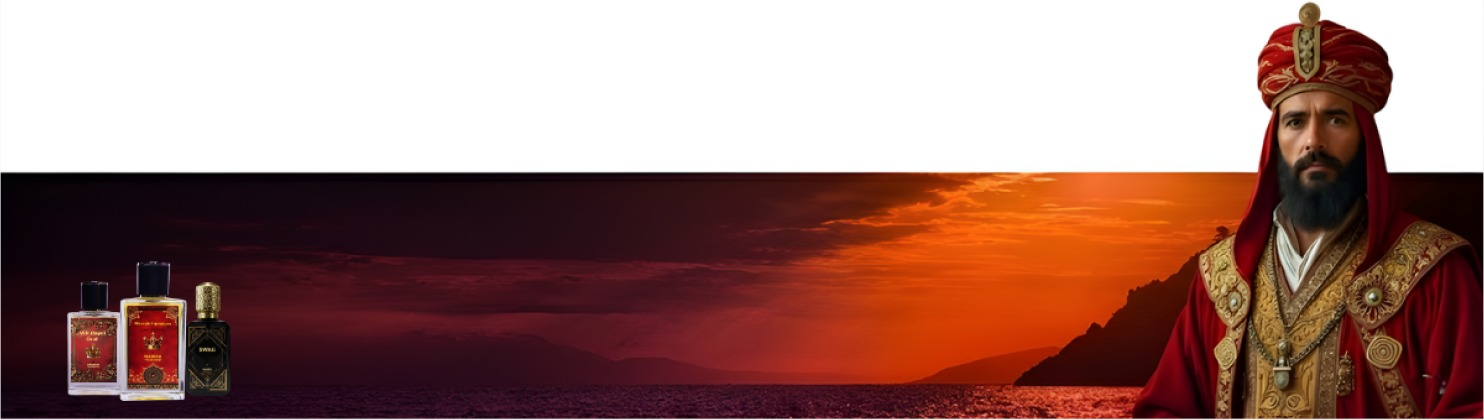
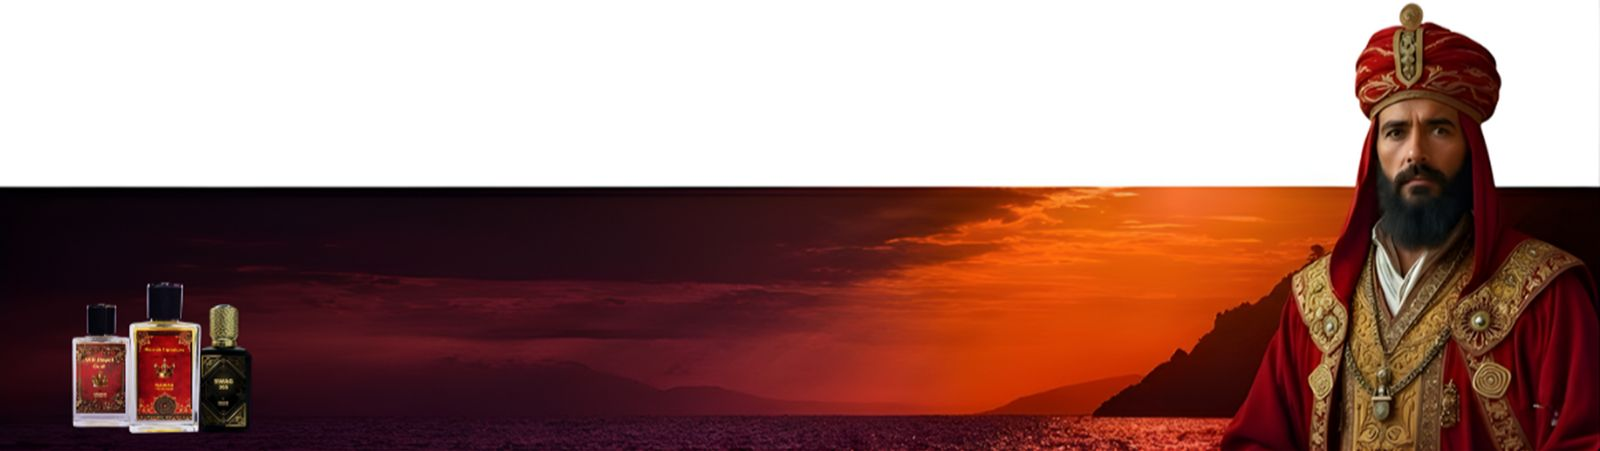
update

diff --git a/index.html b/index.html
@@ -126,7 +126,7 @@
             <div id="carouselExampleFade" class="carousel slide carousel-fade hero-section">
                 <div class="carousel-inner">
                     <div class="carousel-item active">
-                        <img src="assets/NEW.jpeg" class="d-block w-100" alt="..." loading="lazy">
+                        <img src="assets/NEW.png" class="d-block w-100" alt="..." loading="lazy">
                     </div>
                     <div class="carousel-item">
                         <img src="assets/NEW1.png" class="d-block w-100" alt="..." loading="lazy">
@@ -322,7 +322,7 @@
                             <h3 class="product-name">Freedom</h3>
                             <p class="product-desc">Office For Men</p>
                             <div class="sale-badge">Sale</div>
-                            <div class="price-block"><span class="original-price">Rs. 2,250</span> <span
+                            <div class="price-block"><span class="original-price">Rs. 2,450</span> <span
                                     class="sale-price">Rs. 2,150</span></div>
                         </div>
                     </div>
@@ -340,7 +340,7 @@
                             <h3 class="product-name">Alpha Man</h3>
                             <p class="product-desc">Inspired by Aventus</p>
                             <div class="sale-badge">Sale</div>
-                            <div class="price-block"><span class="original-price">Rs. 2,550</span> <span
+                            <div class="price-block"><span class="original-price">Rs. 2,450</span> <span
                                     class="sale-price">Rs. 2,150</span></div>
                         </div>
                     </div>
@@ -395,7 +395,7 @@
                             <h3 class="product-name">Flora Moves</h3>
                             <p class="product-desc">Gucci flora inspired</p>
                             <div class="sale-badge">Sale</div>
-                            <div class="price-block"><span class="original-price">Rs. 2,250</span> <span
+                            <div class="price-block"><span class="original-price">Rs. 2,450</span> <span
                                     class="sale-price">Rs. 2,150</span></div>
                         </div>
                     </div>
@@ -414,7 +414,7 @@
                             <h3 class="product-name">Gull</h3>
                             <p class="product-desc">Inspired by Baccarat Rouge 540</p>
                             <div class="sale-badge">Sale</div>
-                            <div class="price-block"><span class="original-price">Rs. 2,250</span> <span
+                            <div class="price-block"><span class="original-price">Rs. 2,450</span> <span
                                     class="sale-price">Rs. 2,150</span></div>
                         </div>
                     </div>
@@ -431,7 +431,7 @@
                                     alt="Chocolate Musk" class="img-fluid" loading="lazy"></a>
                             <h3 class="product-name">Persona</h3>
                             <p class="product-desc">Inspired by Chocolate Musk</p>
-                            <div class="price-block"><span class="original-price">Rs. 2,250</span> <span
+                            <div class="price-block"><span class="original-price">Rs. 2,450</span> <span
                                     class="sale-price">Rs. 2,150</span></div>
                         </div>
                     </div>
@@ -450,7 +450,25 @@
                             <h3 class="product-name">Golden Girl</h3>
                             <p class="product-desc">Inspired by Guess Gold</p>
                             <div class="sale-badge">Sale</div>
-                            <div class="price-block"><span class="original-price">Rs. 2,250</span> <span
+                            <div class="price-block"><span class="original-price">Rs. 2,450</span> <span
+                                    class="sale-price">Rs. 2,150</span></div>
+                        </div>
+                    </div>
+                    <div class="col">
+                        <div class="product-card text-center">
+                            <div class="floating-actions">
+                                <button class="fabtn quick-view-btn" data-bs-toggle="modal"
+                                    data-bs-target="#quickViewModal" data-product-id="rainbow-black-opium"
+                                    aria-label="Quick View"><i class="fas fa-search"></i></button>
+                                <button class="fabtn add-to-cart-btn" data-product-id="rainbow-black-opium"
+                                    aria-label="Add to Cart"><i class="fas fa-plus"></i></button>
+                            </div>
+                            <a href="/product.html?id=rainbow-black-opium"><img src="assets/rainbow3.png"
+                                    alt="Rainbow" class="img-fluid" loading="lazy"></a>
+                            <h3 class="product-name">Rainbow</h3>
+                            <p class="product-desc">Inspired by Black Opium</p>
+                            <div class="sale-badge">Sale</div>
+                            <div class="price-block"><span class="original-price">Rs. 2,450</span> <span
                                     class="sale-price">Rs. 2,150</span></div>
                         </div>
                     </div>
@@ -485,7 +503,7 @@
                             <h3 class="product-name">Flora Moves</h3>
                             <p class="product-desc">Inspired by Gucci Flora</p>
                             <div class="sale-badge">Sale</div>
-                            <div class="price-block"><span class="original-price">Rs. 2,250</span> <span
+                            <div class="price-block"><span class="original-price">Rs. 2,450</span> <span
                                     class="sale-price">Rs. 2,150</span></div>
                             <!-- <a href="/product.html?id=flora-moves-gucci-flora" class="btn btn-outline-gold mt-2">View Details</a> -->
                         </div>
@@ -505,7 +523,7 @@
                             <h3 class="product-name">Gorgeous</h3>
                             <p class="product-desc">Inspired by Tommy Girl</p>
                             <div class="sale-badge">Sale</div>
-                            <div class="price-block"><span class="original-price">Rs. 2,250</span> <span
+                            <div class="price-block"><span class="original-price">Rs. 2,450</span> <span
                                     class="sale-price">Rs. 2,150</span></div>
                         </div>
                     </div>
@@ -524,7 +542,7 @@
                             <h3 class="product-name">Butterfly</h3>
                             <p class="product-desc">Inspired by Gucci Bloom</p>
                             <div class="sale-badge">Sale</div>
-                            <div class="price-block"><span class="original-price">Rs. 2,250</span> <span
+                            <div class="price-block"><span class="original-price">Rs. 2,450</span> <span
                                     class="sale-price">Rs. 2,150</span></div>
                         </div>
                     </div>
@@ -543,7 +561,7 @@
                             <h3 class="product-name">Era</h3>
                             <p class="product-desc">Inspired by Oud Wood</p>
                             <div class="sale-badge">Sale</div>
-                            <div class="price-block"><span class="original-price">Rs. 2,250</span> <span
+                            <div class="price-block"><span class="original-price">Rs. 2,450</span> <span
                                     class="sale-price">Rs. 2,150</span></div>
                         </div>
                     </div>
@@ -562,7 +580,7 @@
                             <h3 class="product-name">Aura</h3>
                             <p class="product-desc">Inspired by Issey Miyake</p>
                             <div class="sale-badge">Sale</div>
-                            <div class="price-block"><span class="original-price">Rs. 2,250</span> <span
+                            <div class="price-block"><span class="original-price">Rs. 2,450</span> <span
                                     class="sale-price">Rs. 2,150</span></div>
                         </div>
                     </div>
@@ -591,7 +609,7 @@
                             <h3 class="product-name">Platinum</h3>
                             <p class="product-desc">Inspired by D&GLight Blue</p>
                             <div class="sale-badge">Sale</div>
-                            <div class="price-block"><span class="original-price">Rs. 2,250</span> <span
+                            <div class="price-block"><span class="original-price">Rs. 2,450</span> <span
                                     class="sale-price">Rs. 2,150</span></div>
                         </div>
                     </div>

diff --git a/script.js b/script.js
@@ -49,7 +49,7 @@ document.addEventListener('DOMContentLoaded', () => {
         { id: 'gull-baccarat-rouge-540', name: 'Gull', tagline: 'Inspired by Baccarat Rouge 540', price: 2150, image: 'assets/gull-baccarat-rouge-540.jpg', sizes: ['50ml'], category: 'women', premium: false },
         { id: 'crystal-jadore', name: 'Crystal', tagline: 'Inspired by J’adore', price: 2150, image: 'assets/crystal-jadore.jpg', sizes: ['50ml'], category: 'women', premium: false },
         { id: 'touch-burberry-body', name: 'Touch', tagline: 'Inspired by Burberry Body', price: 2150, image: 'assets/touch.jpg', sizes: ['50ml'], category: 'women', premium: false },
-        { id: 'rainbow-black-opium', name: 'Rainbow', tagline: 'Inspired by Black Opium', price: 2150, image: 'assets/Special-Oud-100ml.jpeg', sizes: ['50ml'], category: 'women', premium: false },
+        { id: 'rainbow-black-opium', name: 'Rainbow', tagline: 'Inspired by Black Opium', price: 2150, image: 'assets/rainbow3.png', sizes: ['50ml'], category: 'women', premium: false },
         { id: 'platinum-dg-light-blue', name: 'Platinum', tagline: 'Inspired by D&J Light Blue', price: 2150, image: 'assets/platinum.jpg', sizes: ['50ml'], category: 'women', premium: false },
         { id: 'aroma-breeze-spring-flower', name: 'Aroma Breeze', tagline: 'Inspired by Spring Flower', price: 2450, image: 'assets/aroma-breeze-spring-flower.jpg', sizes: ['50ml'], category: 'women', premium: true },
 
@@ -58,28 +58,30 @@ document.addEventListener('DOMContentLoaded', () => {
         { id: 'time-less-no4', name: 'Time less', tagline: 'Inspired by Thomas Kosmala No.4', price: 2150, image: 'assets/timeless.jpg', sizes: ['50ml'], category: 'unisex', premium: false },
         { id: 'white-oud-premium', name: 'White Oud Premium', tagline: 'Inspired by Premium Oud', price: 2450, image: 'assets/White-Oud-Premium-100ml.jpeg', sizes: ['50ml'], category: 'unisex', premium: true },
         { id: 'imperial-oud-ispahan', name: 'Imperial Oud', tagline: 'Inspired by Oud Ispahan', price: 2150, image: 'assets/imperial-oud.jpg', sizes: ['50ml'], category: 'unisex', premium: false },
-        { id: 'vip-royal-oud', name: 'VIP Royal Oud', tagline: 'Inspired by Royal Oud', price: 2150, image: 'assets/vip-royal-oud-hover1.jpeg', sizes: ['50ml'], category: 'unisex', premium: false },
+        { id: 'vip-royal-oud', name: 'VIP Royal Oud', tagline: 'Inspired by Royal Oud', price: 2150, image: 'assets/vip-royal-oud-hover1.jpeg', sizes: ['50ml'], category: 'unisex', premium: true },
         { id: 'persona-chocolate-musk', name: 'Persona', tagline: 'Inspired by Chocolate Musk', price: 2150, image: 'assets/Persona.jpg', sizes: ['50ml'], category: 'unisex', premium: false },
-        { id: 'king-srk', name: 'KING SRK', tagline: 'Inspired by Signature Series', price: 2450, image: 'assets/Special-Oud-100ml.jpeg', sizes: ['50ml'], category: 'unisex', premium: true },
         { id: 'prime-ck-one', name: 'Prime', tagline: 'Inspired by CK One', price: 2150, image: 'assets/prime.jpg', sizes: ['50ml'], category: 'unisex', premium: false },
 
         // --- Men ---
         { id: 'swag', name: 'Swag 365', tagline: 'Woody Aromatic Fragrance for Men & Women', price: 2450, image: 'assets/swag.jpeg', sizes: ['50ml'], category: 'men', premium: true },
-        { id: 'nawab-signature-men', name: 'Nawab Signature Perfume for Men', tagline: 'Signature Series', price: 2450, image: 'assets/Nawab-Signature-Men.jpg', sizes: ['50ml'], category: 'men', premium: true },
+        { id: 'nawab-signature', name: 'Nawab Signature Perfume', tagline: 'Signature Series', price: 2450, image: 'assets/Nawab-Signature-Men.jpg', sizes: ['50ml'], category: 'unisex', premium: true },
         { id: 'sher', name: 'Sher', tagline: 'Mens Collection', price: 2150, image: 'assets/sher.jpeg', sizes: ['50ml'], category: 'men', premium: false },
         { id: 'kingdom-bvlgari-aqva', name: 'Kingdom', tagline: 'Inspired by Bvlgari Aqva', price: 2150, image: 'assets/kingdom.jpg', sizes: ['50ml'], category: 'men', premium: false },
         { id: 'era-oud-wood', name: 'Era', tagline: 'Inspired by Oud Wood', price: 2150, image: 'assets/era.jpg', sizes: ['50ml'], category: 'men', premium: false },
         { id: 'aura-issey-miyake', name: 'Aura', tagline: 'Inspired by Issey Miyake', price: 2150, image: 'assets/aura.jpg', sizes: ['50ml'], category: 'men', premium: false },
         { id: 'crush-sauvage-dior', name: 'Crush', tagline: 'Inspired by Sauvage Dior', price: 2150, image: 'assets/crush.jpg', sizes: ['50ml'], category: 'men', premium: false },
         { id: 'vip-gold-one-million', name: 'VIP Gold', tagline: 'Inspired by 1 Million', price: 2450, image: 'assets/vip-gold.jpg', sizes: ['50ml'], category: 'men', premium: true },
-        { id: 'sigma-tuscan-leather', name: 'SIGMA', tagline: 'Inspired by Tuscan Leather', price: 2450, image: 'assets/sigma.jpg', sizes: ['50ml'], category: 'men', premium: true },
+        { id: 'sigma-tuscan-leather', name: 'SIGMA', tagline: 'Inspired by Tuscan Leather', price: 2450, image: 'assets/sigma.jpg', sizes: ['50ml'], category: 'unisex', premium: true },
         { id: 'freedom-office-for-men', name: 'Freedom', tagline: 'Inspired by Office For Men', price: 2150, image: 'assets/freedom.jpg', sizes: ['50ml'], category: 'men', premium: false },
         { id: 'alpha-man-creed-aventus', name: 'Alpha Man', tagline: 'Inspired by Aventus', price: 2150, image: 'assets/alfa-men.jpg', sizes: ['50ml'], category: 'men', premium: false },
         { id: 'mbf-invictus-legend', name: 'M.B.F', tagline: 'Inspired by Invictus Legend', price: 2150, image: 'assets/mbf.jpg', sizes: ['50ml'], category: 'men', premium: false },
         { id: 'lethal-blue-d-chanel', name: 'Lethal', tagline: 'Inspired by Bleu de Chanel', price: 2150, image: 'assets/lethal-hover.jpg', sizes: ['50ml'], category: 'men', premium: false },
         { id: 'power-terre-dhermes', name: 'Power', tagline: 'Inspired by Terre d’Hermes', price: 2150, image: 'assets/Nawab-H-Boss-100ml.png', sizes: ['50ml'], category: 'men', premium: false },
         { id: 'life-hugo-boss', name: 'Life', tagline: 'Inspired by Hugo Boss', price: 2150, image: 'assets/life.jpg', sizes: ['50ml'], category: 'men', premium: false },
+            { id: 'king-srk', name: 'KING SRK', tagline: 'Inspired by Signature Series', price: 2450, image: 'assets/Special-Oud-100ml.jpeg', sizes: ['50ml'], category: 'men', premium: true },
     ];
+
+
 
     // --- Sale pricing helper ---
     // We treat these current prices as 'sale' prices and show an original price = sale + 300
@@ -743,6 +745,17 @@ document.addEventListener('DOMContentLoaded', () => {
                 const primary = matched.filter(p => p.category !== 'unisex');
                 const unisex = matched.filter(p => p.category === 'unisex');
                 currentProducts = [...primary, ...unisex];
+            } else if (categoryKey === 'unisex') {
+                // For unisex page, include select high-priority items from other categories
+                // so they appear first. Adjust priorityOrder to change which products are promoted.
+                const priorityOrder = ['sigma-tuscan-leather', 'nawab-signature', 'vip-royal-oud'];
+                const matched = products.filter(p => p.category === 'unisex' || priorityOrder.includes(p.id));
+
+                const top = matched
+                    .filter(p => priorityOrder.includes(p.id))
+                    .sort((a, b) => priorityOrder.indexOf(a.id) - priorityOrder.indexOf(b.id));
+                const rest = matched.filter(p => !priorityOrder.includes(p.id));
+                currentProducts = [...top, ...rest];
             } else {
                 currentProducts = products.filter(p => p.category === categoryKey);
             }

diff --git a/about.html b/about.html
@@ -121,7 +121,7 @@
             <div id="carouselExampleFade" class="carousel slide carousel-fade hero-section">
                 <div class="carousel-inner">
                     <div class="carousel-item active">
-                        <img src="assets/NEW.jpeg" class="d-block w-100" alt="..." loading="lazy">
+                        <img src="assets/NEW.png" class="d-block w-100" alt="..." loading="lazy">
                     </div>
                     <div class="carousel-item">
                         <img src="assets/NEW1.png" class="d-block w-100" alt="..." loading="lazy">
